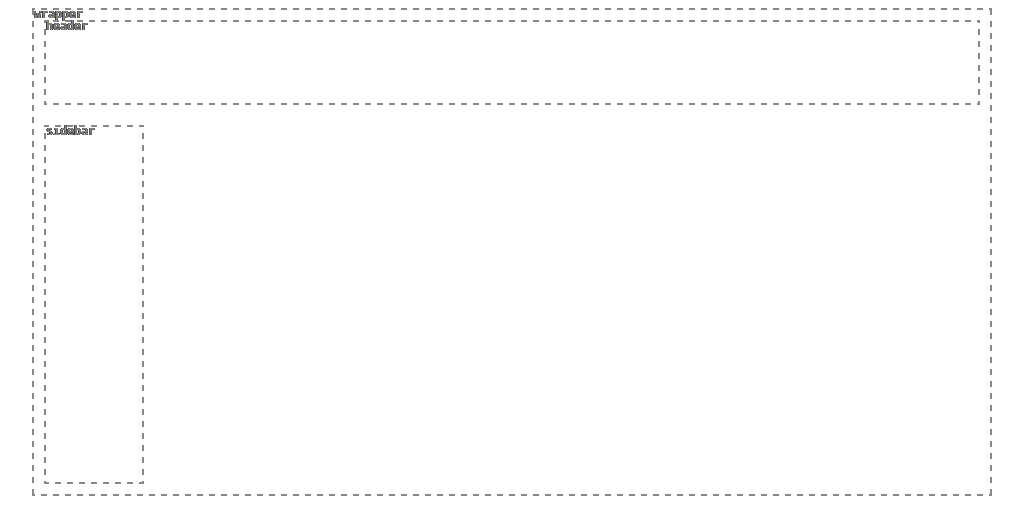
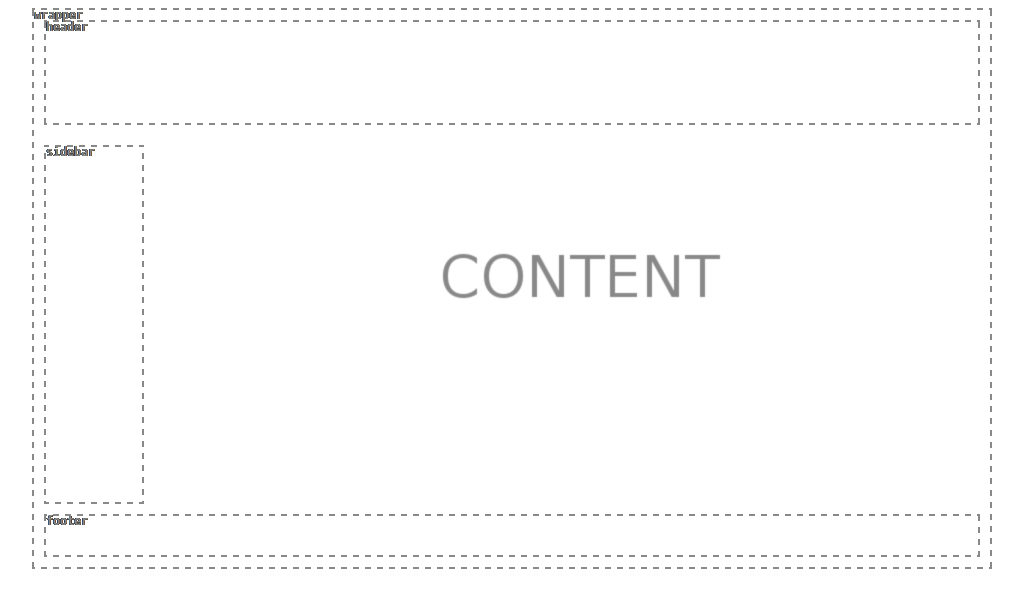
kolejne edytowanie tekstu

diff --git a/index.html b/index.html
@@ -22,7 +22,7 @@
     <!-- wrapper is 960px wide, centered -->
 
     <header>
-      <h1>Déjà vu... no footer, no problem?</h1>
+      <h1>And now for some actual work :)</h1>
 
     </header>
 
@@ -53,6 +53,10 @@
       Lorem ipsum dolor sit amet, consectetur adipisicing elit. Nihil fugiat iusto officia quidem ipsa maiores ut cum qui ad harum magnam adipisci quas quis. Incidunt eius doloremque accusantium dignissimos nemo dicta fugit necessitatibus explicabo beatae possimus enim accusamus totam tenetur repellendus placeat non vel laborum animi praesentium sed quos quibusdam tempore mollitia est voluptatem alias consequatur in atque quia ipsam laudantium quae obcaecati magni ea ipsa aspernatur nisi inventore iusto impedit quis fugiat architecto. Non architecto molestiae repellat illum velit consequatur maiores veritatis totam nesciunt qui quibusdam ab odit nobis fugit quod at hic commodi explicabo? Ab placeat nemo perspiciatis quibusdam unde commodi culpa rem quam eius non sit fuga alias eveniet a tempora. Soluta commodi odit quibusdam consequuntur ipsa consequatur quasi dolor nostrum temporibus adipisci eaque dolorem voluptates unde hic incidunt reiciendis repellendus perspiciatis obcaecati nemo aspernatur esse velit quo distinctio aliquid aperiam ea illo earum porro ex vel mollitia quae officia sed est eligendi consectetur dolore nihil. Ipsam sit rem possimus soluta dignissimos dicta ea autem distinctio deleniti incidunt ut voluptates eveniet fugit blanditiis facilis pariatur recusandae. Iusto consequuntur aperiam quo tempore quisquam fugiat fuga adipisci unde nulla magnam ab provident assumenda rem qui error inventore repudiandae soluta!
 
     </div>
+    
+    <footer>
+      I'm a footer!
+    </footer>
 
   </div>
 </body>

diff --git a/style.css b/style.css
@@ -15,27 +15,32 @@ DO:
 1. change the text color after you look at the HTML and the image you're reproducing
 2. uncomment the borders 
 3. do what you need to fit the outlines
-4. get in trouble with sidebar sticking out at the bottom and solve the problem
+4. get in trouble with footer and solve the problem
 
 */
 
 body{
 	/* change this to some color to see the text. ever heard of RGBA? */
 	color: white;
+	
 }
 
 div.wrapper {
+
 	border: 2px dotted yellow;
 	width: 960px;
 	margin: auto;
-	overflow: auto
-	
+
 	/*border: 2px dotted yellow;*/
+}
+ header{
+	border: 2px dotted yellow;
+	padding: 10px;
+	 margin: 10px;
 }
 
 
 div.content {
-	clear: 
 
 }
 
@@ -43,15 +48,18 @@ div.sidebar {
 	width: 100px;
 	border: 2px dotted yellow;
 	margin: 10px;
-	float: left; 
-
-	/*border: 2px dotted yellow;*/
-}
-
-
-header {
-	border: 2px dotted yellow;
-	margin: 10px;
+	float: left;
 	
 	/*border: 2px dotted yellow;*/
 }
+
+
+header, footer {
+	border: 2px dotted yellow;
+	clear: both;
+	margin: 10px;
+	padding: 10px
+	/*border: 2px dotted yellow;*/
+
+}
+
